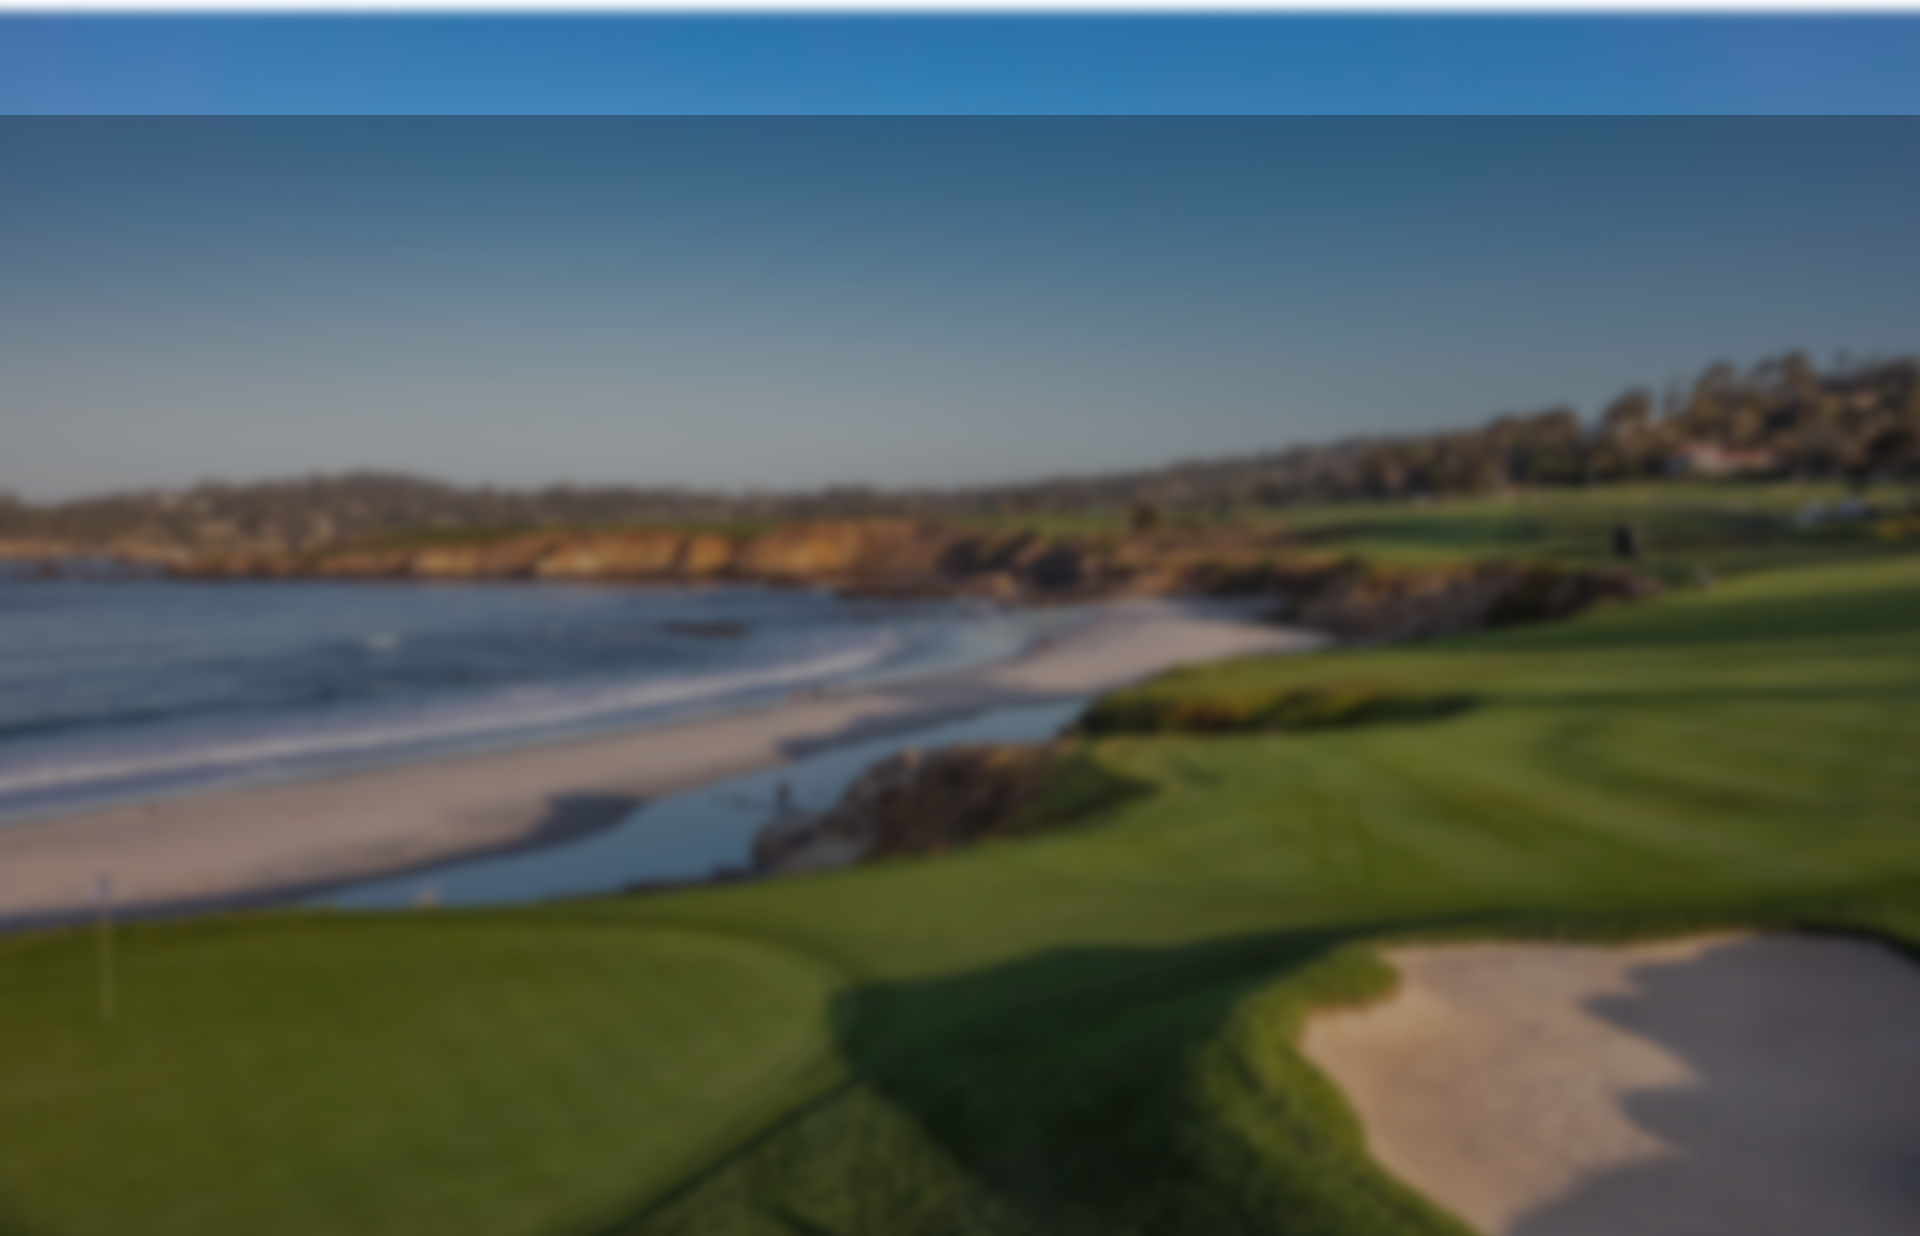
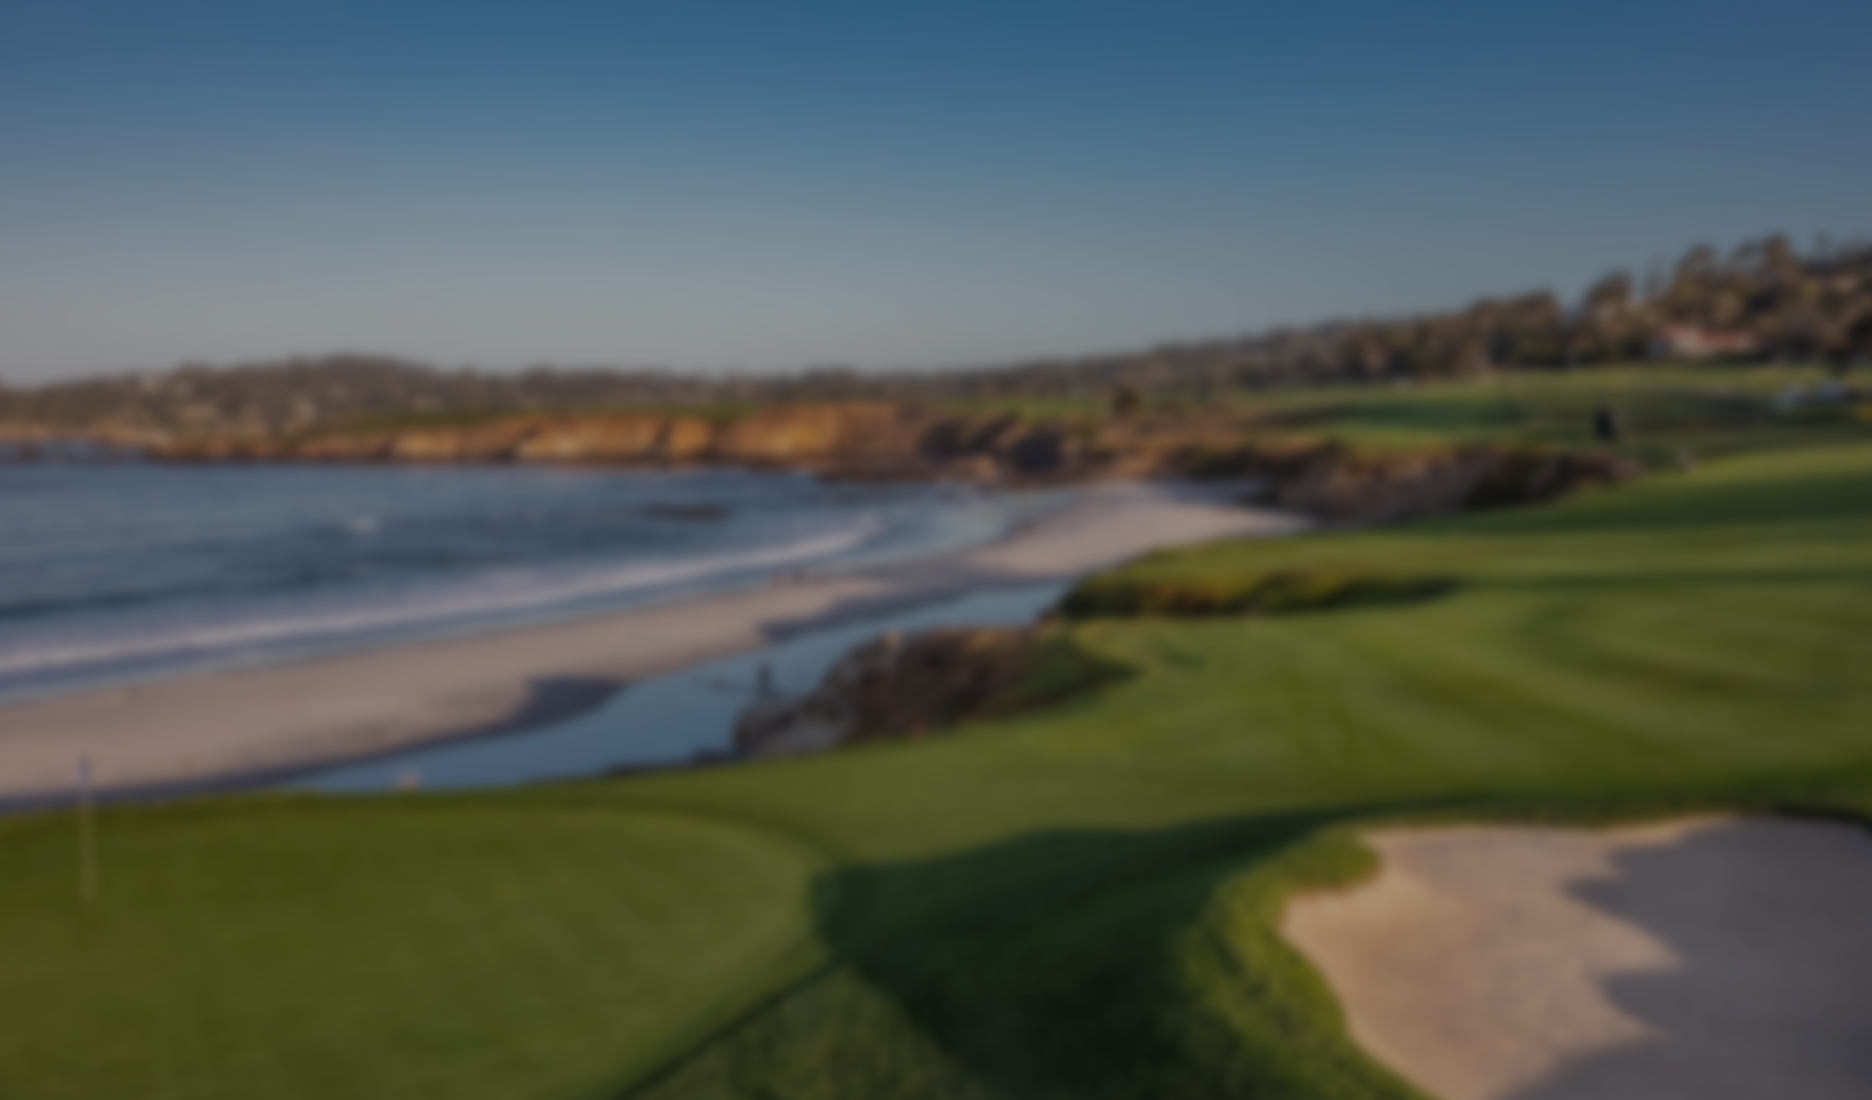
1

diff --git a/dash.css b/dash.css
@@ -158,7 +158,7 @@ body {
 	margin: 0;
 	color: white;
 	font-family: Helvetica;
-	background-color: black;
+	background: url(https://cdn.jsdelivr.net/gh/bochili/cdn3/%E7%9F%A9%E5%BD%A2%201.png);
 	-webkit-user-select: none;
 }
 
